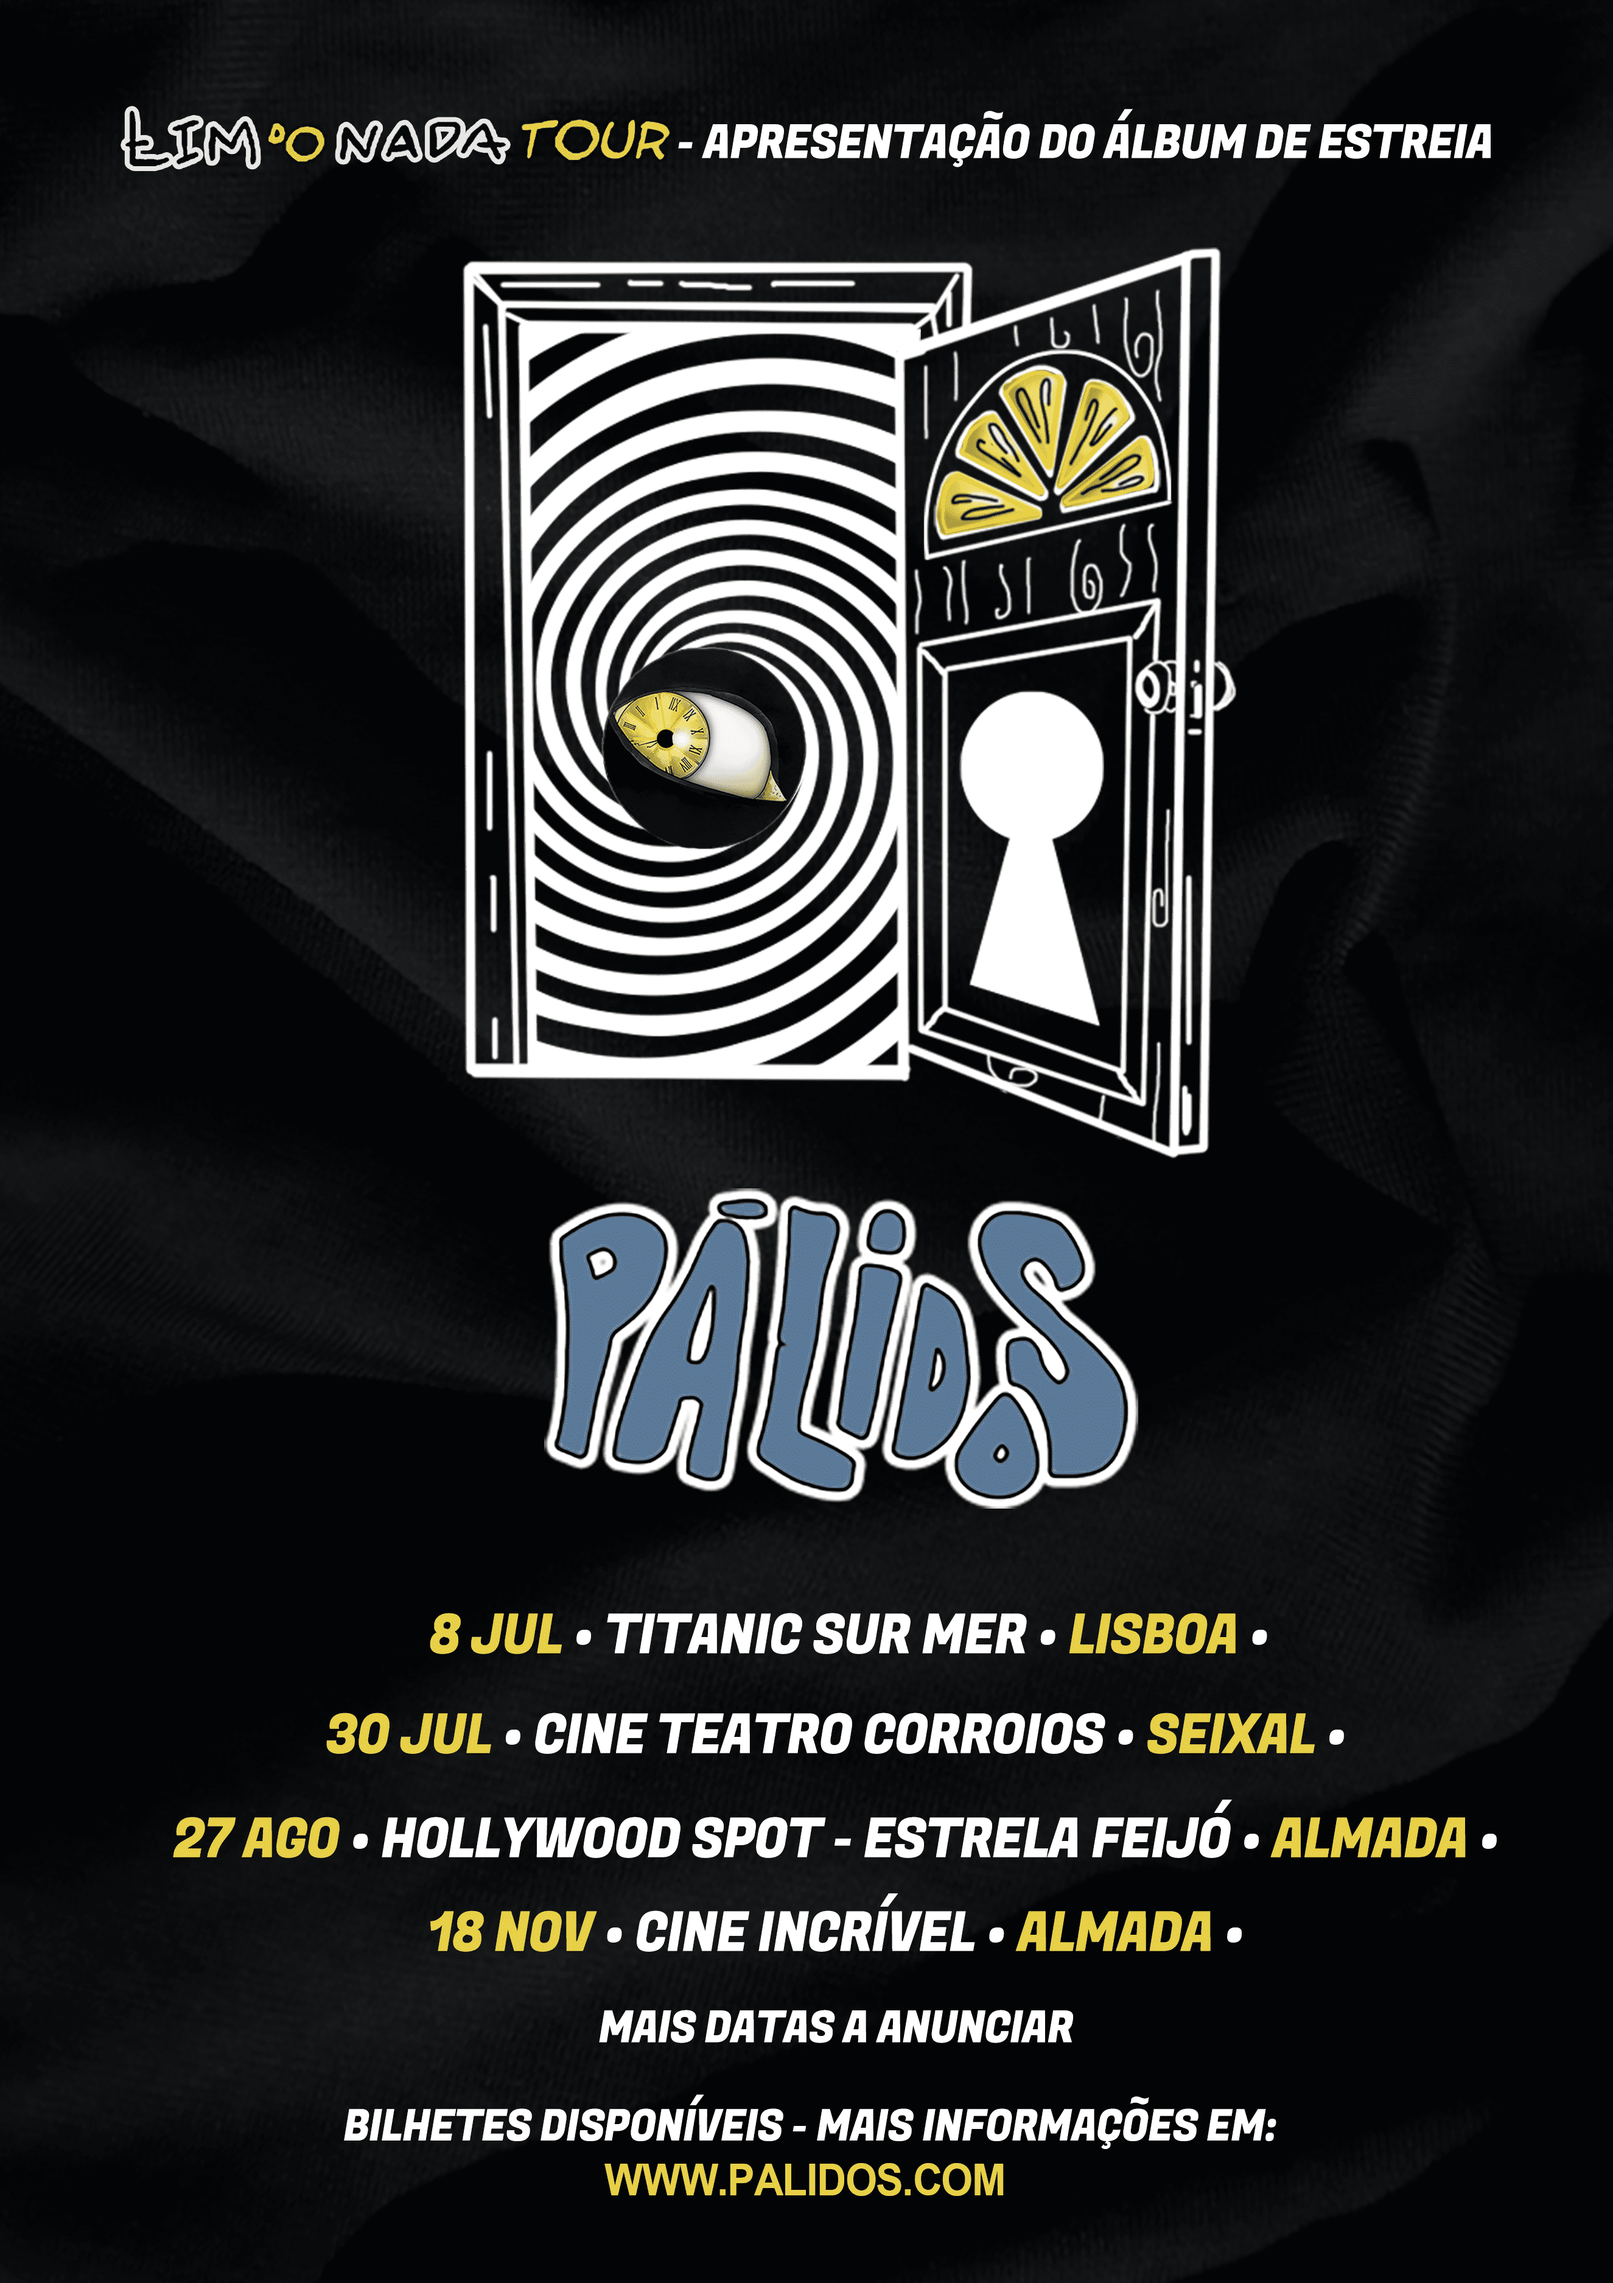
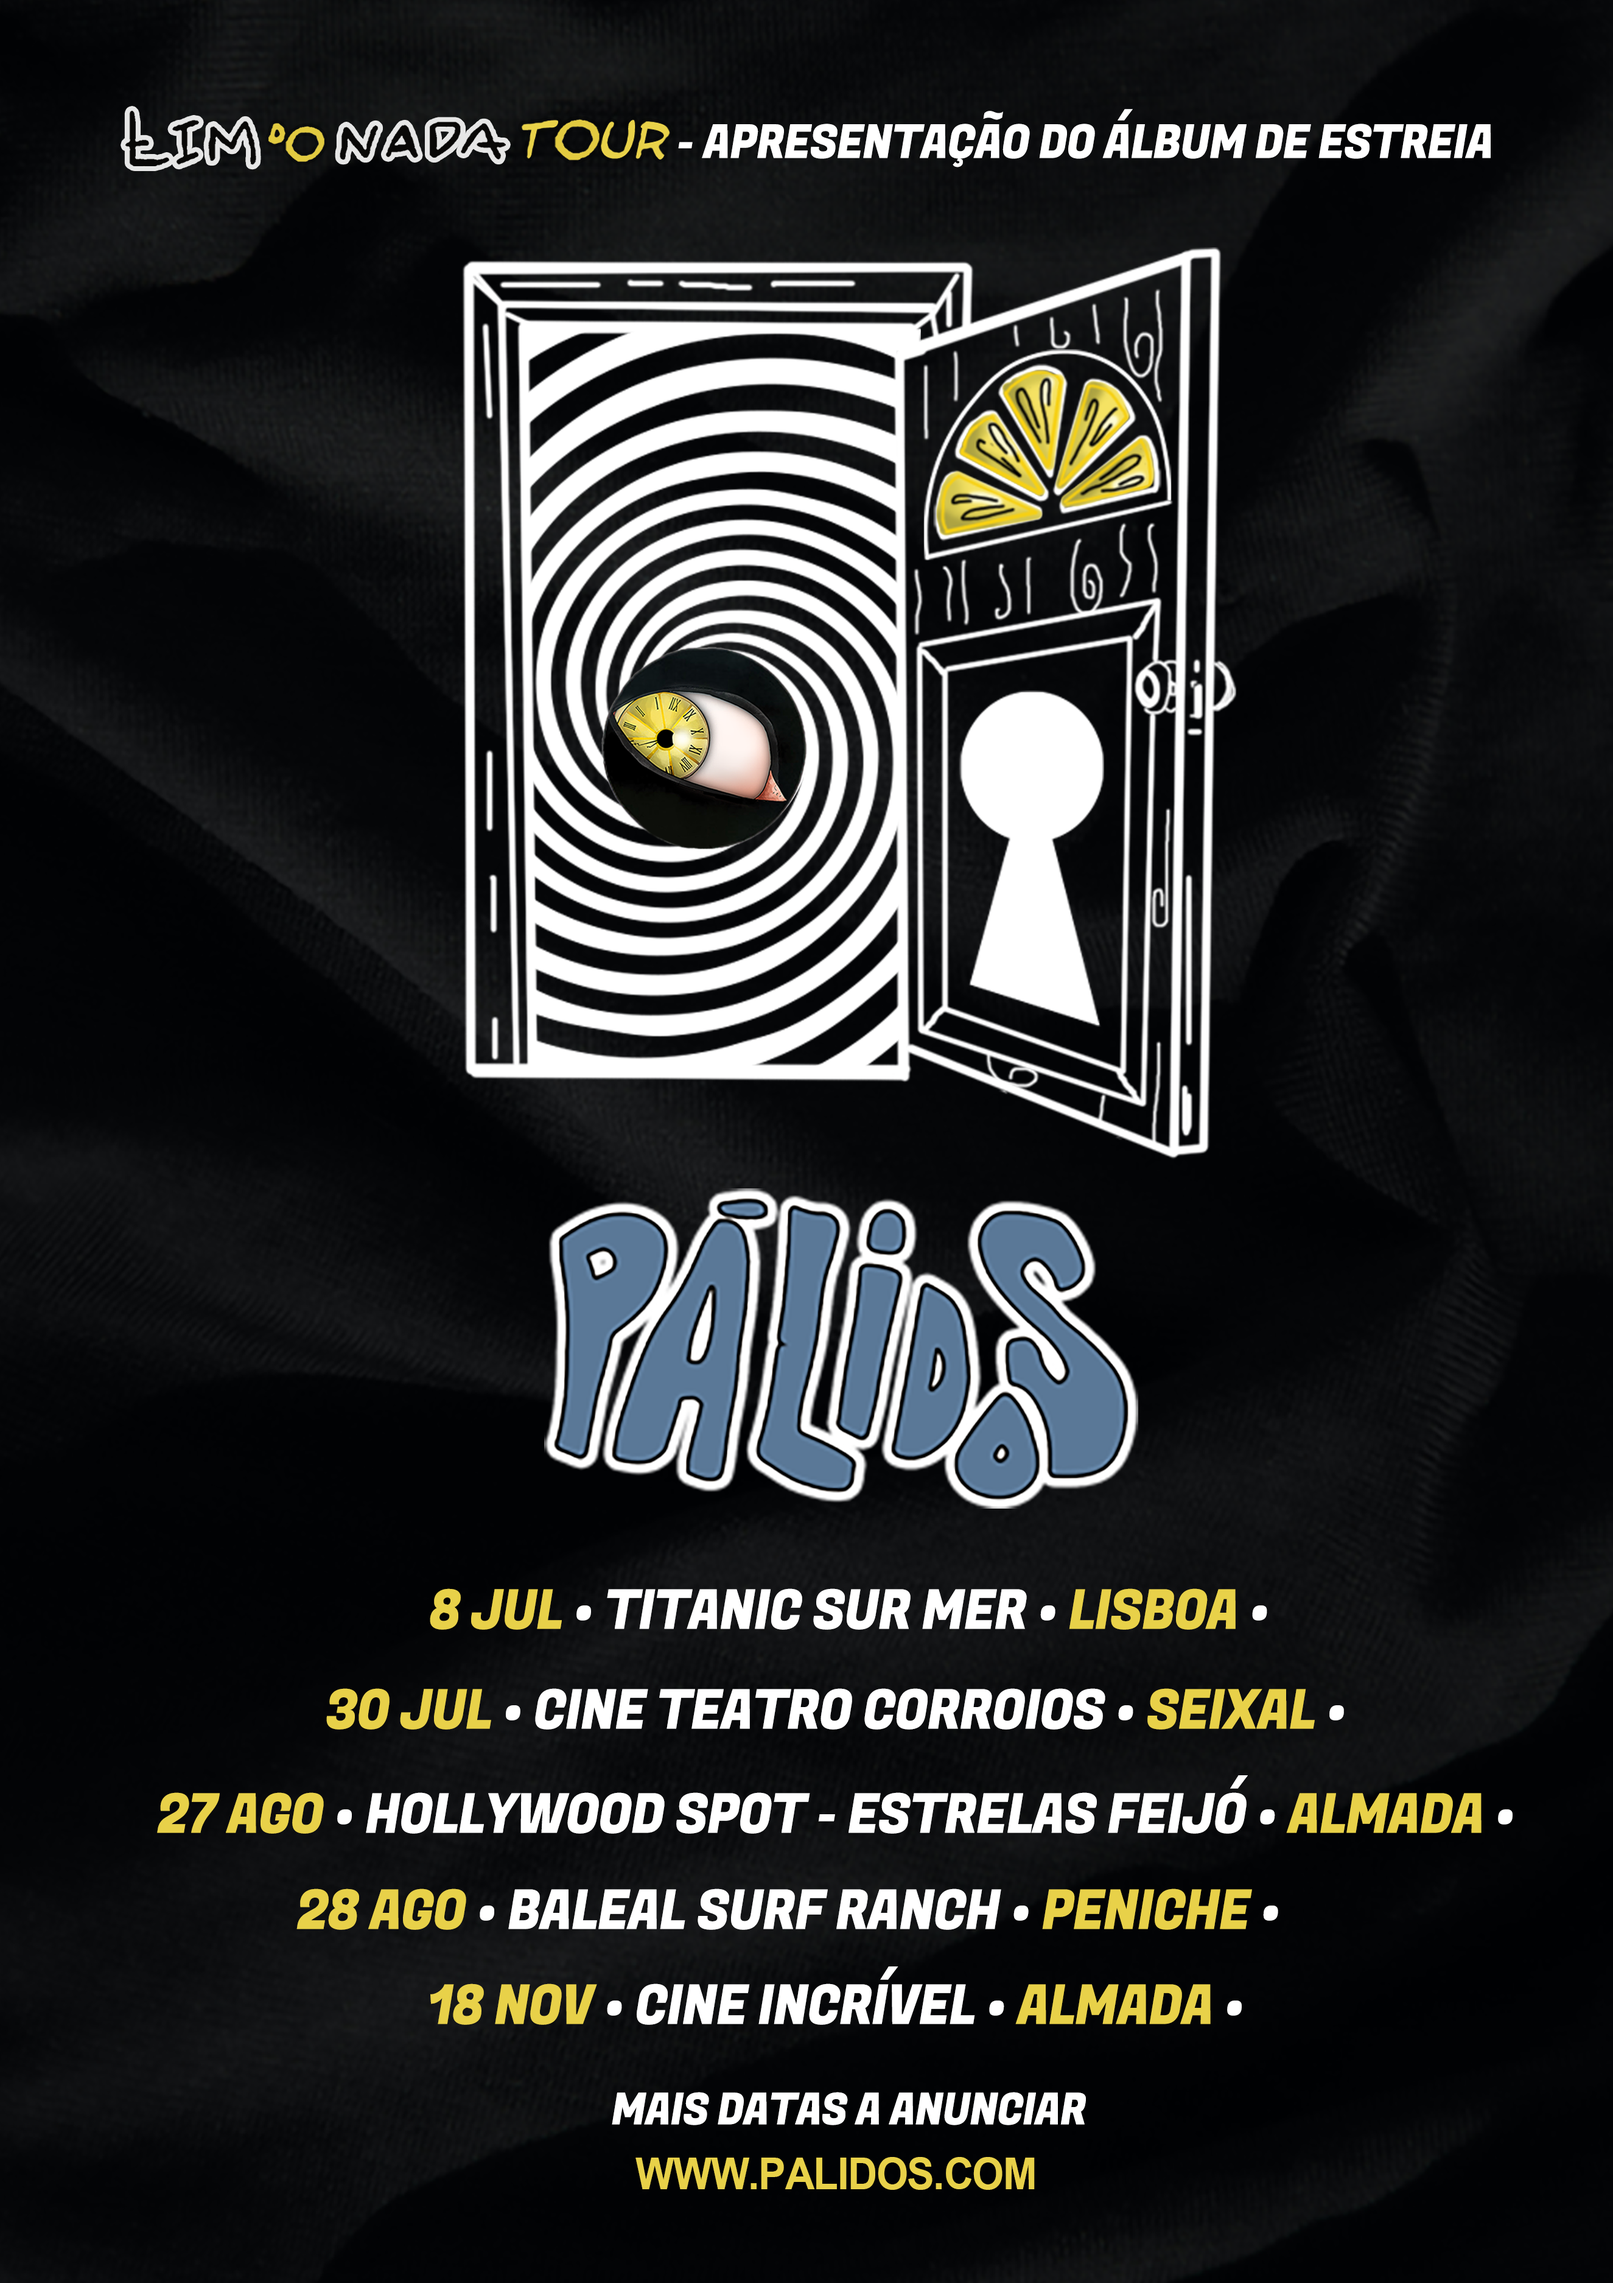
Algumas imagens nos assets substituídas, t-shirts, concertos com novas datas Concerto acrescentado e mudado a setlist do concerto de 30 de Julho Trending, noticia sobre datas da tour atualizada

Changed region(s): [[0.0928, 0.6864, 0.9283, 0.9672], [0.5879, 0.156, 0.7117, 0.2496], [0.3713, 0.2808, 0.4951, 0.3744]]

diff --git a/src/app/pages/concerts/concerts.component.html b/src/app/pages/concerts/concerts.component.html
@@ -18,7 +18,7 @@
           <span class="glyphicon glyphicon-chevron-down"></span>
           
           <tbody>
-            <tr data-toggle="collapse" data-target="#demo21">
+            <tr data-toggle="collapse" data-target="#demo24">
               <td>18 Novembro</td>
               <td>Cine-Incrível</td>
               <td>Almada, Portugal</td>
@@ -33,7 +33,22 @@
           </tbody>
 
           <tbody>
-            <tr data-toggle="collapse" data-target="#demo21">
+            <tr data-toggle="collapse" data-target="#demo23">
+              <td>28 Agosto</td>
+              <td>Baleal Surf Ranch - Praia do Baleal</td>
+              <td>Peniche, Portugal</td>
+            </tr>
+     
+              <tr>
+                <td colspan="3" class="hiddenRow">
+                  <div id="demo21" class="collapse">
+                  </div>
+               </td>
+              </tr>
+          </tbody>
+
+          <tbody>
+            <tr data-toggle="collapse" data-target="#demo22">
               <td>27 Agosto</td>
               <td>Hollywood Spot - Estrelas Feijó</td>
               <td>Almada, Portugal</td>
@@ -52,15 +67,20 @@
               <td>30 Julho</td>
               <td>Cine-Teatro de Corroios</td>
               <td>Corroios, Portugal</td>
-              <td style="vertical-align: middle;">	<a class="btn btn-primary btn-sm active" href="news/fim-do-nada-tour-corroios" data-toggle="button" aria-pressed="false" autocomplete="off">Bilhetes</a></td>
+              <td style="vertical-align: middle;">	<i style="vertical-align: middle;" class="fa-solid fa-up-right-and-down-left-from-center"></i> <!--<a class="btn btn-primary btn-sm active" href="news/fim-do-nada-tour-corroios" data-toggle="button" aria-pressed="false" autocomplete="off">Bilhetes</a>--> </td>
             </tr>
      
-              <tr>
-                <td colspan="3" class="hiddenRow">
-                  <div id="demo21" class="collapse">
-                  </div>
-               </td>
-              </tr>
+            <tr>
+              <td colspan="3" class="hiddenRow">
+                <div id="demo21" class="collapse">
+                  <app-line-up-card
+                    [img]= imgCorroios22
+                    [setList]=setList17
+                  >
+                  </app-line-up-card>
+                </div>
+             </td>
+            </tr>
         </tbody>
 
           <tbody>

diff --git a/src/app/pages/trending/trending-details8/trending-details8.component.html b/src/app/pages/trending/trending-details8/trending-details8.component.html
@@ -26,7 +26,10 @@
                     <p style="margin-bottom:0"><b>8 JULHO</b> • TITANIC SUR MER • <b>CAIS DO SODRÉ, LISBOA</b></p>
                     <p style="margin-bottom:0"><b>30 JULHO</b> • CINE-TEATRO CORROIOS • <b>CORROIOS, SEIXAL</b> (com os convidados: <b>Sogranora</b> e <b>URSE</b>)</p>
                     <p style="margin-bottom:0"><b>27 AGOSTO</b> • HOLLYWOOD SPOT - ESTRELAS FEIJÓ • <b>FEIJÓ, ALMADA</b> (com os convidados: <b>Green Leather</b>)</p>
-                    <p><b>18 NOVEMBRO</b> • CINE INCRÍVEL • <b>ALMADA</b> (convidados por anunciar)</p>
+                    <p style="margin-bottom:0"><b>28 AGOSTO</b> • BALEAL SURF RANCH - PRAIA DO BALEAL • <b>BALEAL, PENICHE • **NOVA DATA**</b></p>
+                    <p><b>18 NOVEMBRO</b> • CINE INCRÍVEL • <b>ALMADA</b></p>
+
+                    <p>Atualizado a 03 de Agosto de 2022</p>
                     
 
         <p></p>

diff --git a/src/app/pages/trending/trending.component.html b/src/app/pages/trending/trending.component.html
@@ -46,7 +46,7 @@
                 </div>
                 <div class="content p-3">
                     <small class="text-muted p float-right"> 16 Jun, 22</small>
-                    <h4 class="mt-2"><a href="news/fim-do-nada-tour" class="text-dark title"><b>FIM DO NADA TOUR - APRESENTAÇÃO DO ÁLBUM DE ESTREIA</b></a></h4>
+                    <h4 class="mt-2"><a href="news/fim-do-nada-tour" class="text-dark title"><b>FIM DO NADA TOUR - APRESENTAÇÃO DO ÁLBUM DE ESTREIA [Novas Datas Acrescentadas]</b></a></h4>
                     <p class="text-muted mt-2"> Assim começa a tour do novo álbum! Ainda com muitas datas para anunciar.</p>
                     
                 </div>

diff --git a/src/app/pages/concerts/concerts.component.ts b/src/app/pages/concerts/concerts.component.ts
@@ -7,6 +7,8 @@ import { Component, OnInit } from '@angular/core';
 })
 export class ConcertsComponent implements OnInit {
 
+  imgCorroios22 = 'assets/news/corroios.png';
+
   imgTitanic = 'assets/concerts/TitanicSurMerJul2022.png';
   setList17 = ['7 AM (Backing Track)', 'Memória, Pt.1', 'Cogumelo', '9 AM (Backing Track)', 'Assado', 'Fronteira', '3 PM (Backing Track)', 'A Brisa Passa (Estreia ao vivo)', 'Bolacha', 'Dar Vida', 'Doninha', '7 PM (Backing Track)', 'Limão (Estreia ao vivo)', 'Beatriz', '11 PM (Backing Track)', 'Memória, Pt.2', 'Mar e Joana (Encore)', '12 PM (Backing Track)'];
 

diff --git a/src/app/pages/home/home.component.html b/src/app/pages/home/home.component.html
@@ -24,7 +24,7 @@
         <img class="d-block w-100" src="assets/home/tour22.png" alt="Second slide">
           <div class="carousel-caption">
             <h5 class="mt-2"><a href="news/fim-do-nada-tour" class="text-white title"><b>FIM DO NADA TOUR</b></a></h5>
-            <p class="text-light mt-2">Mais datas a anunciar brevemente.</p>
+            <p class="text-light mt-2">Datas adicionadas e mais a anunciar brevemente.</p>
           </div>
       </a>
     </div>
